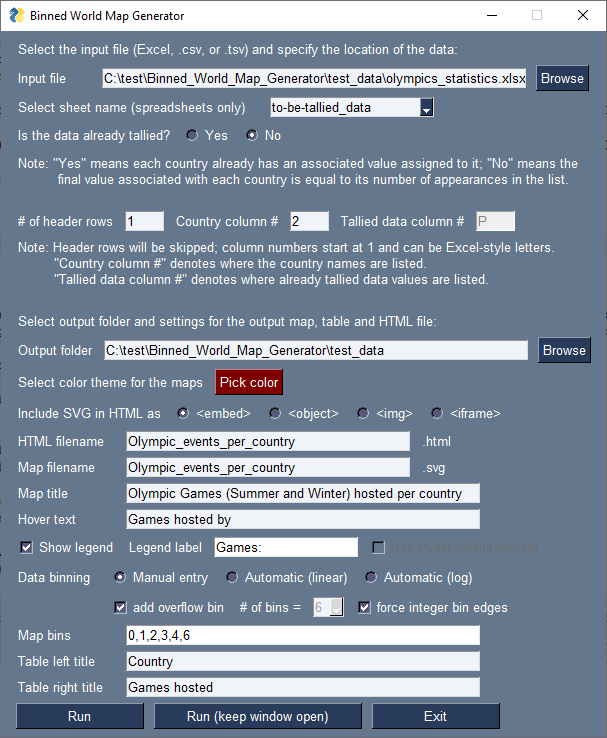
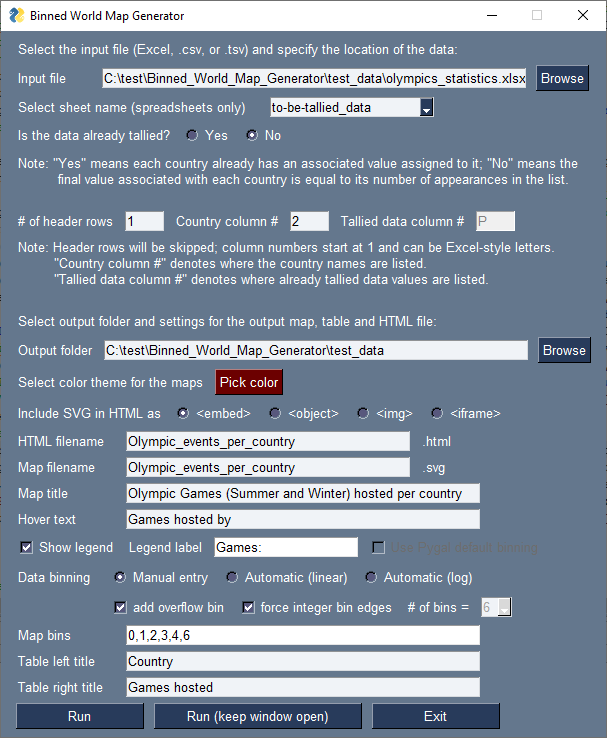
updated images and tables to reflect updated code

Changed region(s): [[0.3855, 0.8103, 0.86, 0.8415]]

diff --git a/_posts/2021-03-14-blog-post-4.md b/_posts/2021-03-14-blog-post-4.md
@@ -1,6 +1,6 @@
 ---
 title: 'Interactive world data map generation tool'
-date: 2021-02-27
+date: 2021-03-14
 header-img: "images/default-site-banner-image_v1.png"
 permalink: /posts/interactive-world-data-map-tool/
 tags:
@@ -106,14 +106,14 @@ There are two special options which impact the meaning of each bin: (1) the over
 
 Forcing integer bin edges does a few things.  First, the automatically generated bins edges, which often are decimal values, are forced to be integers.  (Manually entered bin edges are not affected.)  Second, it causes the data to be interpreted as if it were "counted" integer data (regardless of whether it actually is).  When this is the case, the left edge of each bin after the first one is increased by 1.  When forced integer bin edges are disabled, the data is assumed to be decimal, and the bin edges are set to contain all numbers between the minimum and maximum listed value.  
 
-The behavior of these two settings is illustrated in the table below where "V_lower" and "V_upper" are consecutive bin edges (either specified manually or automatically calculated) and where square brackets ``[]`` include the values next to them ([v1,v2] means &#8805;v1 and &#8804;v2) while parentheses ``()`` do not include the values next to them ((v1,v2) means >v1 and <v2).
+By default, both of these options, the additional overflow bin and forced integer bin edges, are enabled.  The behavior of these two settings is illustrated in the table below where "V_lower" and "V_upper" are consecutive bin edges (either specified manually or automatically calculated) and where square brackets ``[]`` include the values next to them ([v1,v2] means &#8805;v1 and &#8804;v2) while parentheses ``()`` do not include the values next to them ((v1,v2) means >v1 and <v2).
 
 
 | Binning Logic  | |    |
 | -------- | ----------- | ----------- |
 |   | add overflow bin = ``True``<br>**Yes** |  add overflow bin = ``False``<br>**No** |
 | force integer bin edges = ``True``<br>**Yes**  |  First bin: [V_lower,V_upper]<br>Mid bins: [V_lower+1,V_upper]<br>Last bin: [V_lower+1,V_upper]<br>Overflow bin: [V_upper+1,&infin;)  |	First bin: [V_lower,V_upper]<br>Mid bins: [V_lower+1,V_upper]<br>Last bin: [V_lower+1,V_upper]<br>Overflow bin: n/a    |
-| force integer bin edges = ``False``<br>**No**	|	 First bin: [V_lower,V_upper]<br>Mid bins: (V_lower,V_upper]<br>Last bin: (V_lower,V_upper)<br>Overflow bin: [V_upper,&infin;)   |	 First bin: [V_lower,V_upper]<br>Mid bins: (V_lower,V_upper]<br>Last bin: (V_lower,V_upper]<br>Overflow bin: n/a   |
+| force integer bin edges = ``False``<br>**No**	|	 First bin: [V_lower,V_upper]<br>Mid bins: (V_lower,V_upper]<br>Last bin: (V_lower,V_upper]<br>Overflow bin: (V_upper,&infin;)   |	 First bin: [V_lower,V_upper]<br>Mid bins: (V_lower,V_upper]<br>Last bin: (V_lower,V_upper]<br>Overflow bin: n/a   |
 {: .tablelines}
 
 
@@ -123,7 +123,7 @@ As an example, the resulting bins from the four permutations of these special op
 | -------- | ----------- |
 | force integer bin edges = ``True``, **Yes** <br> add overflow bin = ``True``, **Yes**| [1,5], [6,10], [11,20], [21,50], [51,&infin;)   |
 | force integer bin edges = ``True``, **Yes** <br> add overflow bin = ``False``, **No**| [1,5], [6,10], [11,20], [21,50]    |
-| force integer bin edges = ``False``, **No** <br> add overflow bin = ``True``, **Yes**| [1,5], (5,10], (10,20], (20,50), [50,&infin;)    |
+| force integer bin edges = ``False``, **No** <br> add overflow bin = ``True``, **Yes**| [1,5], (5,10], (10,20], (20,50], (50,&infin;)    |
 | force integer bin edges = ``False``, **No** <br> add overflow bin = ``False``, **No**| [1,5], (5,10], (10,20], (20,50]    |
 
 

diff --git a/_pages/hobby-code-projects.md b/_pages/hobby-code-projects.md
@@ -13,7 +13,7 @@ I have worked on a handful of little projects of my own to improve my own comput
 
 [<u>Interactive world data map generator</u>](https://github.com/Lindt8/Interactive_world_data_map)
 ======
-This is an easy-to-use Python tool for making custom interactive Scalable Vector Graphics (SVG) world maps showing binned data, such as the example below showing the number of [Olympic medals won](https://en.wikipedia.org/wiki/All-time_Olympic_Games_medal_table) by each country.  It has a comprehensive GUI, supports data from Excel, CSV, and TSV files, and saves the GUI settings and file data for quick and easy iteration and future usage.  It is discussed at length in [this article](https://hratliff.com/posts/interactive-world-data-map-tool/).
+This is an easy-to-use Python tool for making custom interactive Scalable Vector Graphics (SVG) world maps showing binned data, such as the example below showing the number of [<font color="#90ba6e">Olympic medals won</font>](https://en.wikipedia.org/wiki/All-time_Olympic_Games_medal_table) by each country.  It has a comprehensive GUI, supports data from Excel, CSV, and TSV files, and saves the GUI settings and file data for quick and easy iteration and future usage.  It is discussed at length in [<font color="#90ba6e">this article</font>](https://hratliff.com/posts/interactive-world-data-map-tool/).
 
 
 <div class="fluid-width-video-wrapper" style="padding-top: 67%; text-align: center; width: 85%;"><embed src="/files/Olympic_medals_per_country.svg" type=""></div>
